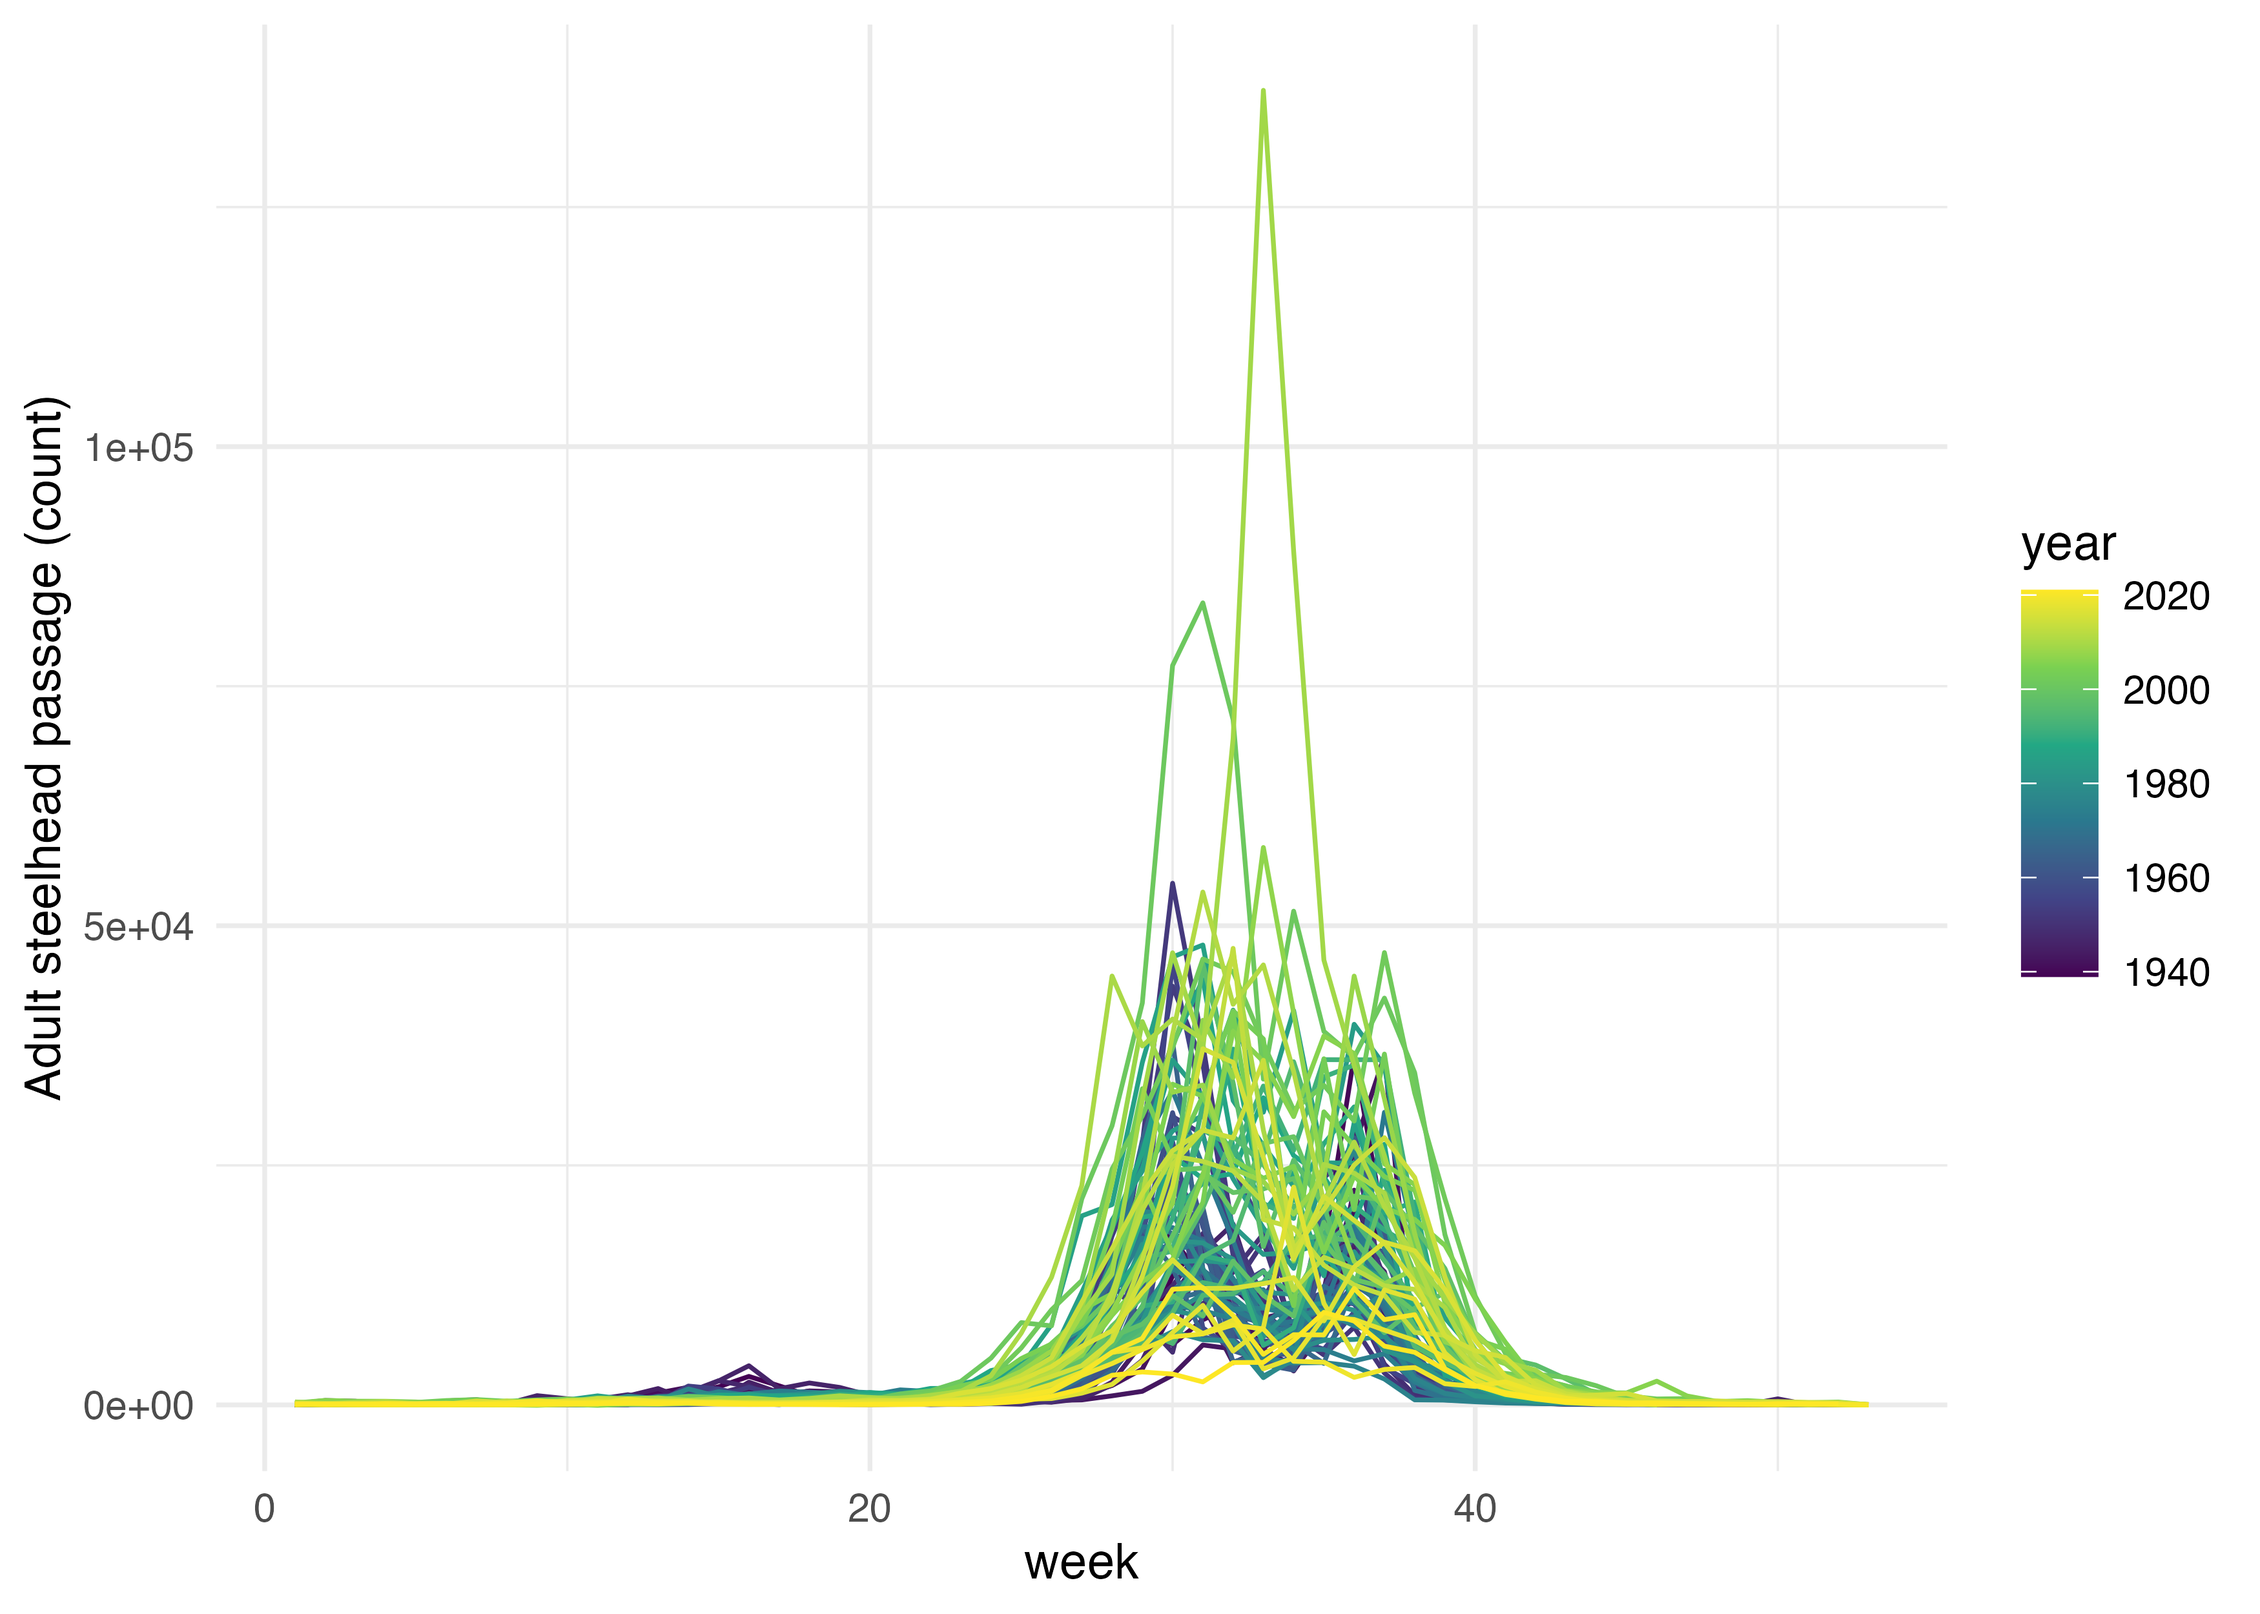
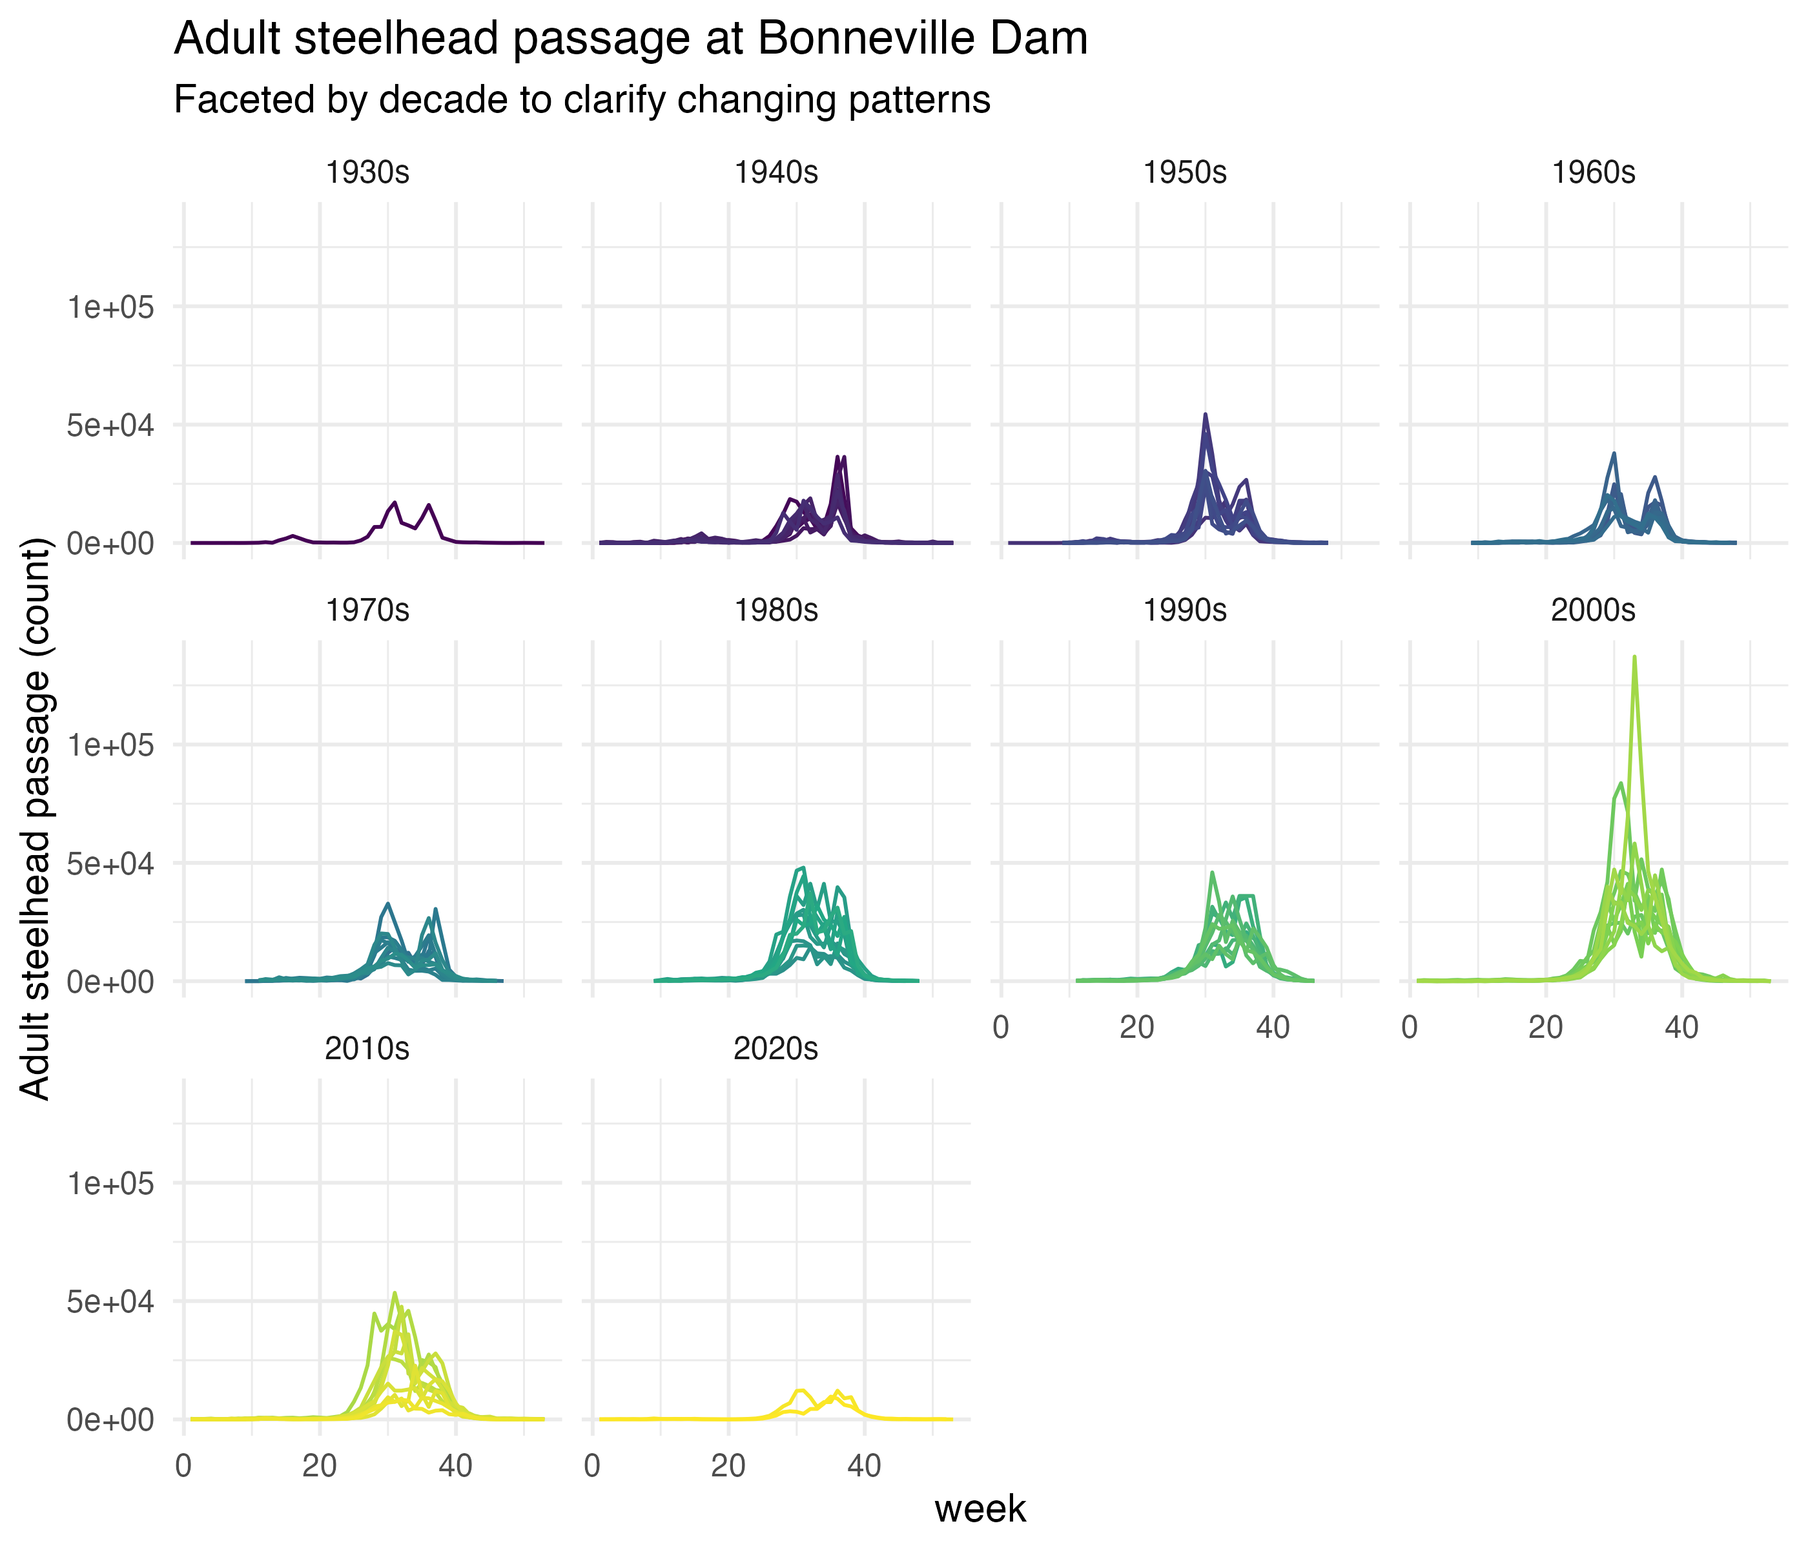
switch seasonplot graph

diff --git a/public/index.html b/public/index.html
@@ -938,7 +938,7 @@ Credit: …
     
     
     <a href="/post/2022-03-07-scrape-dart-fish/" >
-      <img src="/post/2022-03-07-scrape-dart-fish/featured_steelhead_seasonplot_huefec630ef4acaf04a196d43d7766d79e_602285_150x0_resize_lanczos_2.png" alt="">
+      <img src="/post/2022-03-07-scrape-dart-fish/featured_steelhead_seasonplot_huee20f1d67d24f84d0703f66ee32489ff_329885_150x0_resize_lanczos_2.png" alt="">
     </a>
     
   </div>

diff --git a/public/post/index.html b/public/post/index.html
@@ -645,7 +645,7 @@ Credit: …
     
     
     <a href="/post/2022-03-07-scrape-dart-fish/" >
-      <img src="/post/2022-03-07-scrape-dart-fish/featured_steelhead_seasonplot_huefec630ef4acaf04a196d43d7766d79e_602285_150x0_resize_lanczos_2.png" alt="">
+      <img src="/post/2022-03-07-scrape-dart-fish/featured_steelhead_seasonplot_huee20f1d67d24f84d0703f66ee32489ff_329885_150x0_resize_lanczos_2.png" alt="">
     </a>
     
   </div>
